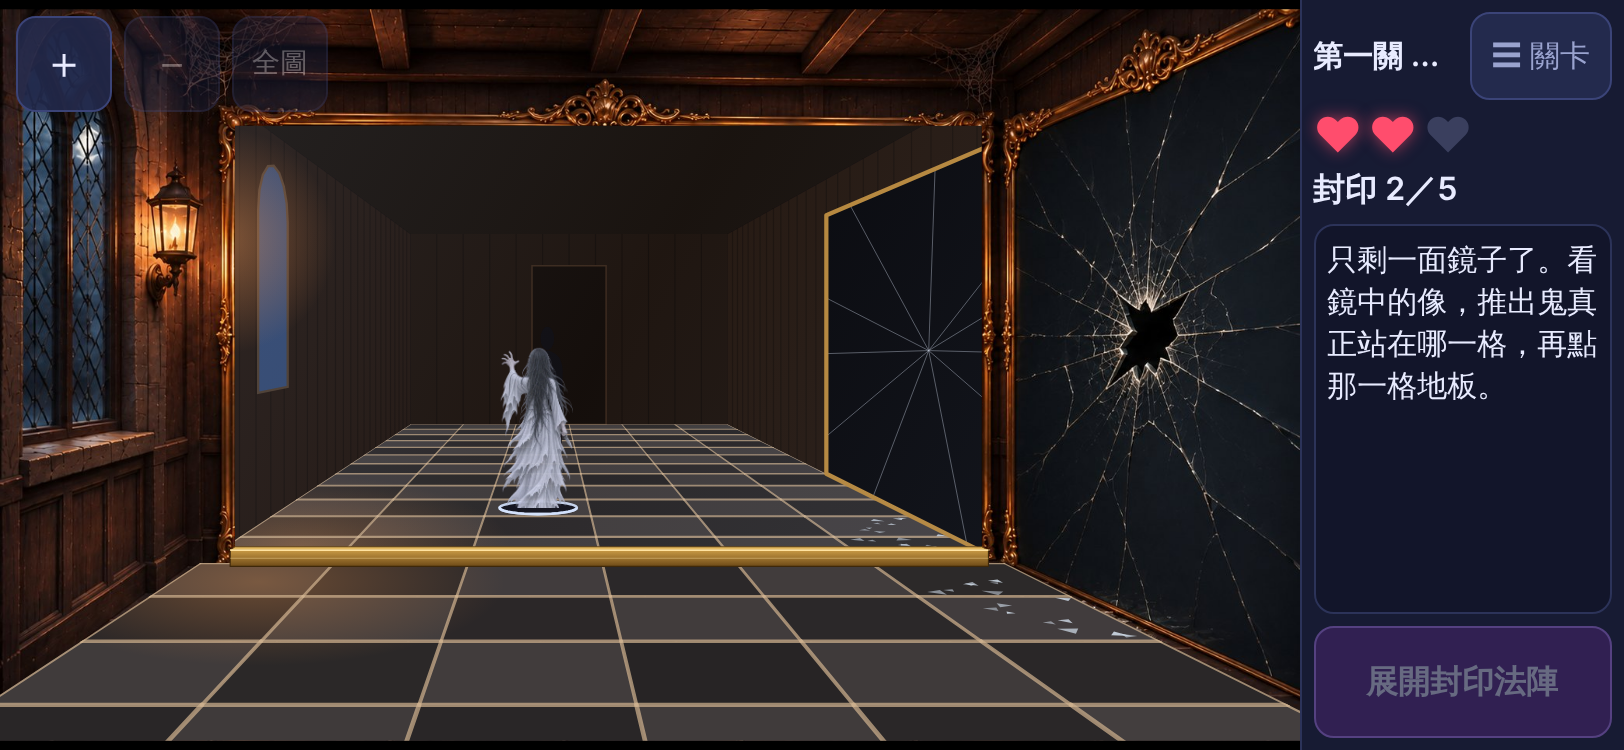
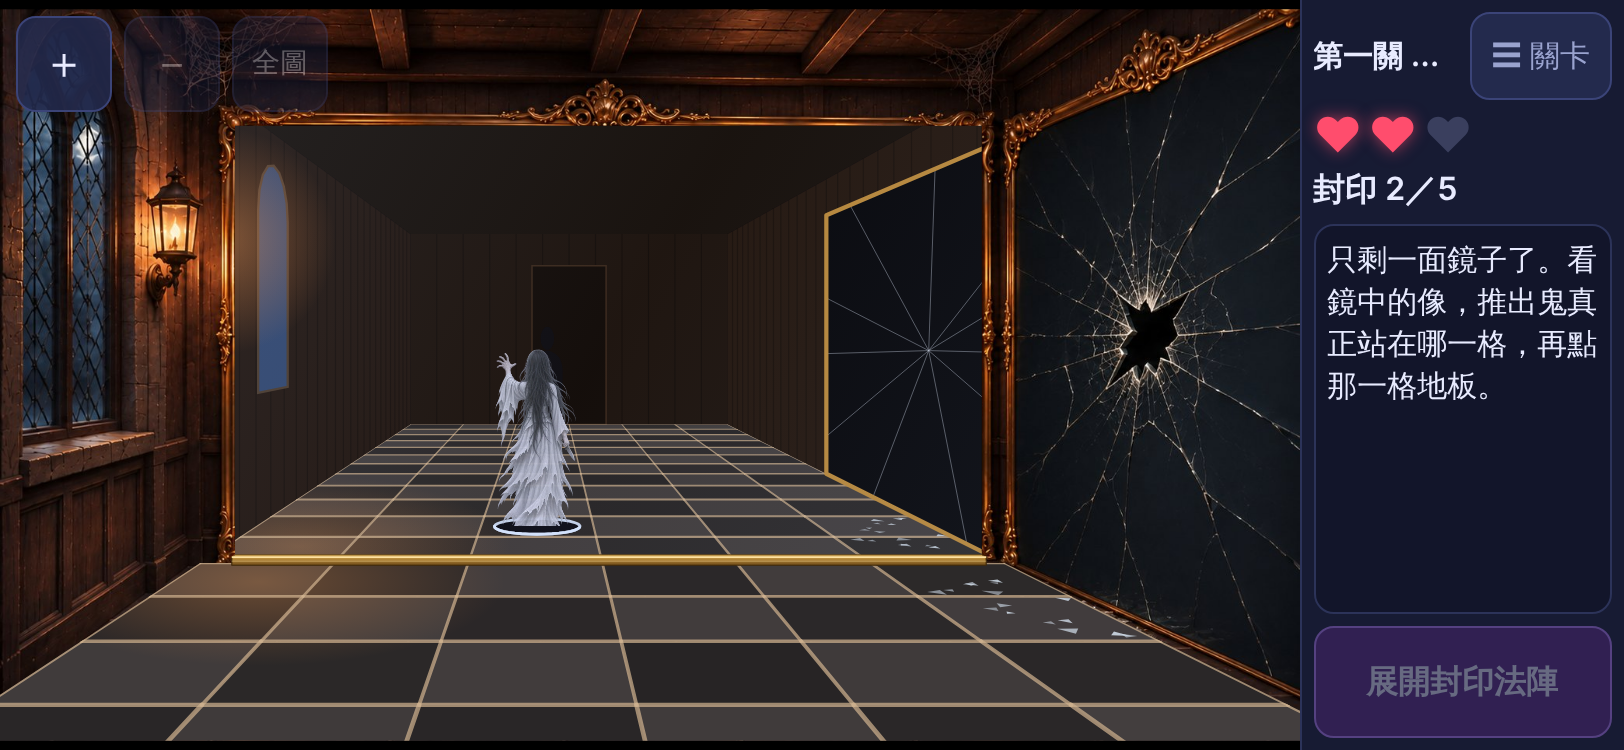
feat(level 1): mirror base frame height 0.06 (user picked A from comparison)
Claude-Session: https://claude.ai/code/session_01HvGmyWyQoEwcRoeJ2hgrpt

Changed region(s): [[0.1232, 0.46, 0.6158, 0.7667]]

diff --git a/prototype/plane-mirror/app.js b/prototype/plane-mirror/app.js
@@ -385,7 +385,7 @@
   // 使用者 2026-11-18 回饋 M10：原本的細黃線太細，要粗一點的鏡框；因為框往上立起一點，
   // 鏡子裡最靠牆那半格可能被擋到一點點，使用者接受（出題格是固定的，不重算）。
   // 只是畫面上的遮擋，鏡面範圍（configs.js 的 glass.bottom）與答案都不變。
-  var FRAME_H = 0.12, FRAME_D = 0.12; // 底框高度、厚度（格）
+  var FRAME_H = 0.06, FRAME_D = 0.08; // 底框高度、厚度（格）；使用者 2026-11-18 從 0.06～0.35 五種比較圖選了最薄的 0.06
   function drawBaseBar(id) {
     var m = R.mirrors[id], g = m.glass, inward = m.axis === 'z' ? 1 : -1; // 房間在鏡面哪一側：正面鏡 +z、右鏡 -x
     function pt(t, y, d) { // t：沿鏡面方向；y：高度；d：離鏡面往房間的距離

diff --git a/PROJECT.md b/PROJECT.md
@@ -125,7 +125,7 @@
 15. **荒野狩獵的過場台詞**（Claude 2026-11-17 起草，寫在 Google 劇本文件 3-1、3-2，標【Claude 草稿，待確認】）：使用者只改了開場兩句（見 CONFIRMED「劇本修訂」），其餘（「天亮之前」、時間到的天亮／晨霧、命用完的嘻嘻笑聲、首次完成解鎖練習模式的提示）使用者沒改也還沒明說定案。
 16. 第二關遊戲中的提示台詞：使用者要等凸透鏡虛像題型（PENDING 14）做完，再請 Claude 補台詞。
 17. **第二關「超清楚」**（使用者 2026-11-18：先不做，也許之後改別的方向）（使用者 2026-11-18 試玩回饋 V3，`docs/playtest-feedback-2026-11-18.md`）：使用者想在「鬼在焦點上、虛像最大」時描線、標「超清楚」。物理上鬼剛好在焦點時不成像（像在無限遠），虛像也沒有對焦問題、永遠清楚。等使用者決定改成什麼（例如：實像剛好對焦時標「超清楚」；或虛像放大率超過某值時給提示；或不做）。
-18. ~~第一關鏡框（回饋 M10）~~ 已釐清並實作（2026-11-18）：使用者要的是較粗的**立體**底框：框立起一點，鏡子裡最靠牆那半格可能被擋到一點點，可以接受、出題格不重算。已實作（高 0.12 格、厚 0.12 格）並截圖給使用者，等看過再調（`plane-mirror/app.js` 的 `FRAME_H`、`FRAME_D`）。
+18. ~~第一關鏡框（回饋 M10）~~ 已釐清並實作（2026-11-18）：使用者要的是較粗的**立體**底框：框立起一點，鏡子裡最靠牆那半格可能被擋到一點點，可以接受、出題格不重算。已實作；使用者看了框高 0.06～0.35 格五種比較圖，**選 A：高 0.06 格**、厚 0.08 格（之後要改調（`plane-mirror/app.js` 的 `FRAME_H`、`FRAME_D`）。
 13. ~~第一關等使用者試玩後決定~~（2026-11-17 使用者都已回覆，見 CONFIRMED；以下保留原題目）（`docs/prototype-findings-mirror.md`）：選格黃框與法陣不出現在鏡子裡可以嗎（ISSUE 5）；鬼的像在正面鏡裡沒有左右相反要不要調整（ISSUE 6）；鏡中要不要畫玩家自己的剪影（ISSUE 7）；鏡中鏡的第二個像要不要留（ISSUE 8）；台詞（第 13 點）；背景圖要不要重畫成落地鏡、玩家站近一點（ISSUE 1～3）。
 
 ---
@@ -337,7 +337,7 @@
 - **虛像題實驗分支已併進 main（2026-11-18）**，`npm test` 全過。
 - **第一關已照回饋改完（2026-11-18，已併進 main）**：M1「有一天……」、M2／M3／M7 台詞、M4 第一次法陣字幕「展開封印法陣！」、M5「匡啷！」那句加碎玻璃聲（`app.js` 的 `shatter()`，Web Audio 合成）＋過場畫面震動、M6 按「繼續抓鬼」後不再震、M8／M9 出題格（`configs.js` 的 `twoMirrorCells`；雙鏡只出 c6r1、c5r1、c6r2，單鏡避開；幾何驗算過這三格兩面鏡都照得到整隻）、G1「☰ 關卡」移到右上角、Q3 過關畫面拿掉「前往第二關」只留「回關卡選單」＋「再玩一次」、`?practice=1` 練習模式。平面鏡 e2e 全過（含新的練習模式檢查）。**還沒在實體手機上試**。
   - 已知小問題：右側欄變窄，標題「第一關 鏡子房間」在手機上被截成「第一關 …」。
-  - M10 立體鏡框已做（見 PENDING 18），等使用者看截圖。
+  - M10 立體鏡框已做，使用者選框高 0.06 格（見 PENDING 18）。
   - **待辦：把「有一天……」寫進 Google 劇本**《光學抓鬼遊戲 劇本初稿》第一關開場第一句（使用者 2026-11-18 要求；要用有 Google Drive／Docs 連接器的工作階段做，雲端這個沒有）。
 - **共用約定（各分頁都照這個做，免得互等）**：
   - **練習模式網址 `?practice=1`**：照關卡規則玩、**扣命**，但**不計時、不呼叫 `Leaderboard`**、不跑開場過場（Claude 假設，待使用者確認要不要過場）。`?free=1` 維持開發用的自由練習，不放進選單。

diff --git a/docs/playtest-feedback-2026-11-18.md b/docs/playtest-feedback-2026-11-18.md
@@ -35,7 +35,7 @@
 | M7 | A | 過關台詞「你：也太多了？別跑！」改成「你：也太多**鬼**了？別跑！」 ✅ 已做（2026-11-18）|
 | M8 | C | 第 1、2 次（兩面鏡）鬼**只出現在三格**：(右1,上1)、(右2,上1)、(右1,上2)，也就是兩面鏡子都照得到的格子。座標：從右邊數第幾欄、從上面數第幾列（Q6）。 ✅ 已做（2026-11-18）|
 | M9 | C | 第 3～5 次（單面鏡）鬼**不出現在** M8 那三格。 ✅ 已做（2026-11-18）|
-| M10 | D | 鏡子房間：讓底下那面鏡子在原圖裡的框露出來，地板只擋住半格。**先截圖給使用者看合不合適**再定案。 ✅ 已做（2026-11-18）：使用者說明是「鏡子底下的黃線太細，加粗成鏡框」。改成**立體底框**（高 0.12 格、厚 0.12 格），立在鏡面前緣，會擋住鏡中最靠牆那排的一小條（使用者的原意：框立起來，鏡內那半格可能被擋到）。只是外觀，鏡面範圍與出題格不變。已截圖給使用者，等看過再調高度（`app.js` 的 `FRAME_H`、`FRAME_D`）。 |
+| M10 | D | 鏡子房間：讓底下那面鏡子在原圖裡的框露出來，地板只擋住半格。**先截圖給使用者看合不合適**再定案。 ✅ 已做（2026-11-18）：使用者說明是「鏡子底下的黃線太細，加粗成鏡框」。改成**立體底框**（使用者看比較圖選 A：高 0.06 格、厚 0.08 格），立在鏡面前緣，會擋住鏡中最靠牆那排的一小條（使用者的原意：框立起來，鏡內那半格可能被擋到）。只是外觀，鏡面範圍與出題格不變。已截圖給使用者，等看過再調高度（`app.js` 的 `FRAME_H`、`FRAME_D`）。 |
 
 ## 第二關（凸透鏡）
 
